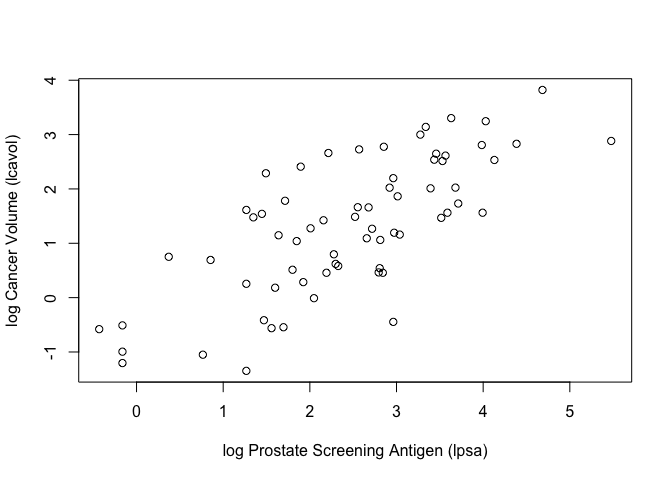
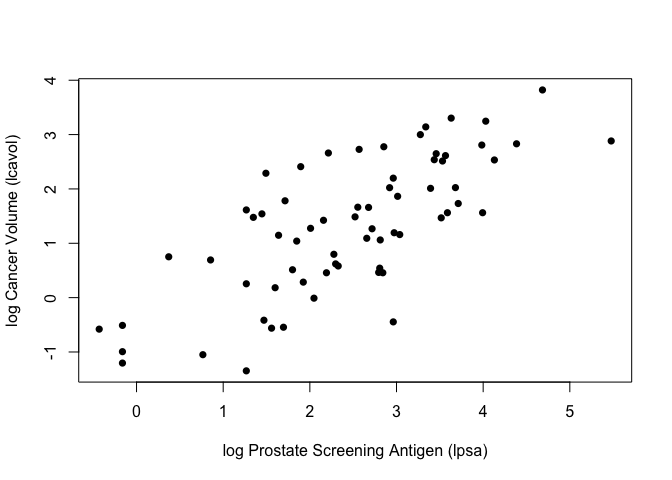
hw2 updated

diff --git a/hw2/hw2.md b/hw2/hw2.md
@@ -1,7 +1,7 @@
 Homework 2
 ================
 Painter, Ty
-Sun Feb 14 20:49:13 2021
+Mon Feb 15 18:36:14 2021
 
 **Using the RMarkdown/knitr/github mechanism, implement the following
 tasks by extending the example R script ( prostate-data-lin.R):**
@@ -24,7 +24,8 @@ prostate_train <- subset(prostate, train==TRUE)
 plot_psa_data <- function(dat=prostate_train) {
   plot(dat$lpsa, dat$lcavol,
        xlab="log Prostate Screening Antigen (lpsa)",
-       ylab="log Cancer Volume (lcavol)")
+       ylab="log Cancer Volume (lcavol)",
+       pch=16)
 }
 plot_psa_data()
 ```
@@ -45,22 +46,43 @@ L2_loss <- function(y, yhat)
 L1_loss <- function(y, yhat)
   abs(y-yhat)
 
+## tilted absolute loss function, tau=0.25
+tilt_loss25 <- function(y, yhat, tau){
+ tav = ifelse(y-yhat>0, 0.25*(y-yhat), (0.25-1)*(y-yhat))
+ return(tav)
+}
+## tilted absolute loss function, tau=0.75
+tilt_loss75 <- function(y, yhat, tau){
+ tav = ifelse(y-yhat>0, 0.75*(y-yhat), (0.75-1)*(y-yhat))
+ return(tav)
+}
+
 ## fit simple linear model using numerical optimization
 fit_lin_L2 <- function(y, x, loss=L2_loss, beta_init = c(-0.51, 0.75)) { # estimates beta1 and beta2; beta minimizes residual squares
-  err2 <- function(beta) # calculates avg L2 loss function
+  err <- function(beta) # calculates avg L2 loss function
     mean(loss(y,  beta[1] + beta[2]*x)) # yhat = beta[1] + beta[2]*x
   
-  beta <- optim(par = beta_init, fn = err2) # want to minimize fn, optimize between (-0.51, 0.75), err is initial value 
+  beta <- optim(par = beta_init, fn = err) # want to minimize fn, optimize between (-0.51, 0.75), err is initial value 
   
   return(beta) # values of beta that minimize training error, uses gradient method
 }
 
 ## fit simple linear model using numerical optimization
 fit_lin_L1 <- function(y, x, loss=L1_loss, beta_init = c(-0.51, 0.75)) { # estimates beta1 and beta2; beta minimizes residual squares
-  err1 <- function(beta) # calculates avg L2 loss function
+  err <- function(beta) # calculates median L1 loss function
     median(loss(y,  beta[1] + beta[2]*x)) # yhat = beta[1] + beta[2]*x
   
-  beta <- optim(par = beta_init, fn = err1) # want to minimize fn, optimize between (-0.51, 0.75), err is initial value 
+  beta <- optim(par = beta_init, fn = err) # want to minimize fn, optimize between (-0.51, 0.75), err is initial value 
+  
+  return(beta) # values of beta that minimize training error, uses gradient method
+}
+
+## fit simple linear model using numerical optimization
+fit_lin_tilt <- function(y, x, loss=tilt_loss, beta_init = c(-0.51, 0.75), tau) { # estimates beta1 and beta2; beta minimizes residual squares
+  err <- function(beta) # calculates absolute loss function
+    tau*(max(loss(y,  beta[1] + beta[2]*x))) # yhat = beta[1] + beta[2]*x
+  
+  beta <- optim(par = beta_init, fn = err) # want to minimize fn, optimize between (-0.51, 0.75), err is initial value 
   
   return(beta) # values of beta that minimize training error, uses gradient method
 }
@@ -79,6 +101,18 @@ lin_beta_L1 <- fit_lin_L1(y=prostate_train$lcavol,
                     x=prostate_train$lpsa,
                     loss=L1_loss)
 
+## fit linear model - estimates betas to minimize training error
+lin_beta_tilt25 <- fit_lin_tilt(y=prostate_train$lcavol,
+                    x=prostate_train$lpsa,
+                    loss=tilt_loss25,
+                    tau=0.25)
+
+## fit linear model - estimates betas to minimize training error
+lin_beta_tilt75 <- fit_lin_tilt(y=prostate_train$lcavol,
+                    x=prostate_train$lpsa,
+                    loss=tilt_loss75,
+                    tau=0.75)
+
 ## compute predictions for a grid of inputs
 x_grid <- seq(min(prostate_train$lpsa),
               max(prostate_train$lpsa),
@@ -89,15 +123,8 @@ y_grid <- seq(from=min(prostate_train$lcavol),
 
 lin_pred_L2 <- predict_lin(x=x_grid, beta=lin_beta_L2$par) # generates yhat (yhat = beta[1] + beta[2]*x)
 lin_pred_L1 <- predict_lin(x=x_grid, beta=lin_beta_L1$par) # generates yhat (yhat = beta[1] + beta[2]*x)
-
-## tilted absolute loss function
-tilt <- function(y, yhat, tau){
- tav = ifelse(y-yhat>0, tau*(y-yhat), (tau-1)*(y-yhat))
- return(tav)
-}
-
-tau25 = tilt(y=y_grid, yhat=lin_pred_L1, tau=0.25) # tilted absolute values for tau = 0.25
-tau75 = tilt(y=y_grid, yhat=lin_pred_L1, tau=0.75) # tilted absolute values for tau = 0.75
+lin_pred_tilt25 <- predict_lin(x=x_grid, beta=lin_beta_tilt25$par) # generates yhat (yhat = beta[1] + beta[2]*x)
+lin_pred_tilt75 <- predict_lin(x=x_grid, beta=lin_beta_tilt75$par) # generates yhat (yhat = beta[1] + beta[2]*x)
 ```
 
   - Create a figure that shows lpsa (x-axis) versus lcavol (y-axis). Add
@@ -108,40 +135,20 @@ tau75 = tilt(y=y_grid, yhat=lin_pred_L1, tau=0.75) # tilted absolute values for 
 <!-- end list -->
 
 ``` r
-## L2 loss function, squared error loss
-L2_loss <- function(y, yhat)
-  (y-yhat)^2
-
-## L1 loss function, absolute error loss
-L1_loss <- function(y, yhat)
-  abs(y-yhat)
-
-## plot tilted absolute loss values
-plot(x = y_grid-lin_pred_L1, y = tau25, col="darkgreen", typ="l", lwd=2,
-     ylab="Titlted Absolue Value",
-     xlab="Y - f(x)")
-lines(x = y_grid-lin_pred_L1, y = tau75, col="darkmagenta", lwd=2)
-legend("top",
-       legend = c("tau = 0.25", "tau = 0.75"),
-       col = c("darkgreen", "darkmagenta"),
+## plot data
+plot_psa_data()
+## plot L1, L2, tilted abs value predictions
+lines(x=x_grid, y=lin_pred_L2, col="red", lwd=2)
+lines(x=x_grid, y=lin_pred_L1, col="blue",lwd=2)
+lines(x=x_grid, y=lin_pred_tilt25, col="green",lwd=2)
+lines(x=x_grid, y=lin_pred_tilt75, col="orange",lwd=2)
+legend("topleft",
+       legend = c("L2 Loss", "L1 Loss", "Tilted Abs. Loss (tau=0.25)", "Tilted Abs. Loss (tau=0.75)"),
+       col = c("red", "blue", "green", "orange"),
        lty = 1, lwd=2)
 ```
 
 ![](hw2_files/figure-gfm/unnamed-chunk-3-1.png)<!-- -->
-
-``` r
-## plot data
-plot_psa_data()
-## plot L1 & L2 predictions
-lines(x=x_grid, y=lin_pred_L2, col="red")
-lines(x=x_grid, y=lin_pred_L1, col="blue")
-legend("topleft",
-       legend = c("L2 Loss", "L1 Loss"),
-       col = c("red", "blue"),
-       lty = 1)
-```
-
-![](hw2_files/figure-gfm/unnamed-chunk-3-2.png)<!-- -->
 
   - Write functions to fit and predict from a simple nonlinear model
     with three parameters defined by ‘beta\[1\] +
@@ -160,39 +167,72 @@ L2_loss <- function(y, yhat)
 L1_loss <- function(y, yhat)
   abs(y-yhat)
 
-## fit simple linear model using numerical optimization
+## tilted absolute loss function, tau=0.25
+tilt_loss25 <- function(y, yhat,tau=0.25){
+ tav = ifelse(y-yhat>0, tau*(y-yhat), (tau-1)*(y-yhat))
+ return(tav)
+}
+## tilted absolute loss function, tau=0.75
+tilt_loss75 <- function(y, yhat, tau=0.75){
+ tav = ifelse(y-yhat>0, tau*(y-yhat), (tau-1)*(y-yhat))
+ return(tav)
+}
+
+## fit simple nonlinear model using numerical optimization
 fit_lin_L2_NL <- function(y, x, loss=L2_loss, beta_init = c(-1.0, 0.0, -0.3)) { # estimates beta1 and beta2; beta minimizes residual squares
-  err2 <- function(beta) # calculates avg L2 loss function
+  err <- function(beta) # calculates avg L2 loss function
     mean(loss(y,  beta[1] + beta[2]*exp(-beta[3]*x))) # yhat = beta[1] + beta[2]*exp(-beta[3]*x)
   
-  beta <- optim(par = beta_init, fn = err2) # want to minimize fn, optimize between (-0.51, 0.75), err is initial value 
+  beta <- optim(par = beta_init, fn = err) # want to minimize fn, optimize between (-1.0, 0.0, -0.3), err is initial value 
   
   return(beta) # values of beta that minimize training error, uses gradient method
 }
 
-## fit simple linear model using numerical optimization
+## fit simple nonlinear model using numerical optimization
 fit_lin_L1_NL <- function(y, x, loss=L1_loss, beta_init = c(-1.0, 0.0, -0.3)) { # estimates beta1 and beta2; beta minimizes residual squares
-  err1 <- function(beta) # calculates avg L2 loss function
+  err <- function(beta) # calculates median L1 loss function
     median(loss(y,  beta[1] + beta[2]*exp(-beta[3]*x))) # yhat = beta[1] + beta[2]*exp(-beta[3]*x)
   
-  beta <- optim(par = beta_init, fn = err1) # want to minimize fn, optimize between (-0.51, 0.75), err is initial value 
+  beta <- optim(par = beta_init, fn = err) # want to minimize fn, optimize between (-1.0, 0.0, -0.3), err is initial value 
   
   return(beta) # values of beta that minimize training error, uses gradient method
 }
 
-## make predictions from linear model
+## fit simple nonlinear model using numerical optimization
+fit_lin_tilt_NL <- function(y, x, loss=tilt_loss, beta_init = c(-1.0, 0.0, -0.3), tau) { # estimates beta1 and beta2; beta minimizes residual squares
+  err <- function(beta) # calculates absolute loss function
+    tau*(max(loss(y,  beta[1] + beta[2]*exp(-beta[3]*x)))) # yhat = beta[1] + beta[2]*x
+  
+  beta <- optim(par = beta_init, fn = err) # want to minimize fn, optimize between (-1.0, 0.0, -0.3), err is initial value 
+  
+  return(beta) # values of beta that minimize training error, uses gradient method
+}
+
+## make predictions from nonlinear model
 predict_lin_NL <- function(x, beta)
   beta[1] + beta[2]*exp(-beta[3]*x)
 
-## fit linear model - estimates betas to minimize training error
+## fit nonlinear model - estimates betas to minimize training error
 lin_beta_L2_NL <- fit_lin_L2_NL(y=prostate_train$lcavol,
                     x=prostate_train$lpsa,
                     loss=L2_loss)
 
-## fit linear model - estimates betas to minimize training error
+## fit nonlinear model - estimates betas to minimize training error
 lin_beta_L1_NL <- fit_lin_L1_NL(y=prostate_train$lcavol,
                     x=prostate_train$lpsa,
                     loss=L1_loss)
+
+## fit nonlinear model - estimates betas to minimize training error
+lin_beta_tilt25_NL <- fit_lin_tilt_NL(y=prostate_train$lcavol,
+                    x=prostate_train$lpsa,
+                    loss=tilt_loss25,
+                    tau=0.25)
+
+## fit nonlinear model - estimates betas to minimize training error
+lin_beta_tilt75_NL <- fit_lin_tilt_NL(y=prostate_train$lcavol,
+                    x=prostate_train$lpsa,
+                    loss=tilt_loss75,
+                    tau=0.75)
 
 ## compute predictions for a grid of inputs
 x_grid <- seq(min(prostate_train$lpsa),
@@ -205,15 +245,8 @@ y_grid <- seq(from=min(prostate_train$lcavol),
 
 lin_pred_L2_NL <- predict_lin_NL(x=x_grid, beta=lin_beta_L2_NL$par) # generates yhat (yhat = beta[1] + beta[2]*x)
 lin_pred_L1_NL <- predict_lin_NL(x=x_grid, beta=lin_beta_L1_NL$par) # generates yhat (yhat = beta[1] + beta[2]*x)
-
-## tilted absolute loss function
-tilt <- function(y, yhat, tau){
- tav = ifelse(y-yhat>0, tau*(y-yhat), (tau-1)*(y-yhat))
- return(tav)
-}
-
-tau25_NL = tilt(y=y_grid, yhat=lin_pred_L1_NL, tau=0.25) # tilted absolute values for tau = 0.25
-tau75_NL = tilt(y=y_grid, yhat=lin_pred_L1_NL, tau=0.75) # tilted absolute values for tau = 0.75
+lin_pred_tilt25_NL <- predict_lin_NL(x=x_grid, beta=lin_beta_tilt25_NL$par) # generates yhat (yhat = beta[1] + beta[2]*x)
+lin_pred_tilt75_NL <- predict_lin_NL(x=x_grid, beta=lin_beta_tilt75_NL$par) # generates yhat (yhat = beta[1] + beta[2]*x)
 ```
 
   - Create a figure that shows lpsa (x-axis) versus lcavol (y-axis). Add
@@ -224,29 +257,17 @@ tau75_NL = tilt(y=y_grid, yhat=lin_pred_L1_NL, tau=0.75) # tilted absolute value
 <!-- end list -->
 
 ``` r
-## plot tilted absolute loss values
-plot(x = y_grid-lin_pred_L1_NL, y = tau25_NL, col="darkgreen", typ="l", lwd=2,
-     ylab="Titlted Absolue Value",
-     xlab="Y - f(x)")
-lines(x = y_grid-lin_pred_L1_NL, y = tau75_NL, col="darkmagenta", lwd=2)
-legend("top",
-       legend = c("tau = 0.25", "tau = 0.75"),
-       col = c("darkgreen", "darkmagenta"),
+## plot data
+plot_psa_data()
+## plot L1, L2, tilted absolute predictions
+lines(x=x_grid, y=lin_pred_L2_NL, col="red", lwd=2)
+lines(x=x_grid, y=lin_pred_L1_NL, col="blue", lwd=2)
+lines(x=x_grid, y=lin_pred_tilt25_NL, col="green",lwd=2)
+lines(x=x_grid, y=lin_pred_tilt75_NL, col="orange",lwd=2)
+legend("topleft",
+       legend = c("L2 Loss", "L1 Loss", "Tilted Abs. Loss (tau=0.25)", "Tilted Abs. Loss (tau=0.75)"),
+       col = c("red", "blue", "green", "orange"),
        lty = 1, lwd=2)
 ```
 
 ![](hw2_files/figure-gfm/unnamed-chunk-5-1.png)<!-- -->
-
-``` r
-## plot data
-plot_psa_data()
-## plot L1 & L2 predictions
-lines(x=x_grid, y=lin_pred_L2_NL, col="red")
-lines(x=x_grid, y=lin_pred_L1_NL, col="blue")
-legend("topleft",
-       legend = c("L2 Loss", "L1 Loss"),
-       col = c("red", "blue"),
-       lty = 1)
-```
-
-![](hw2_files/figure-gfm/unnamed-chunk-5-2.png)<!-- -->
